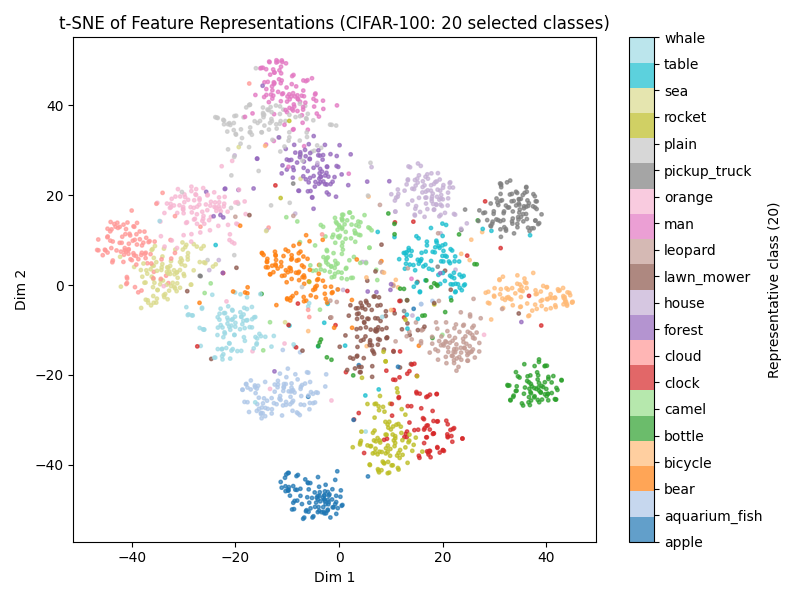
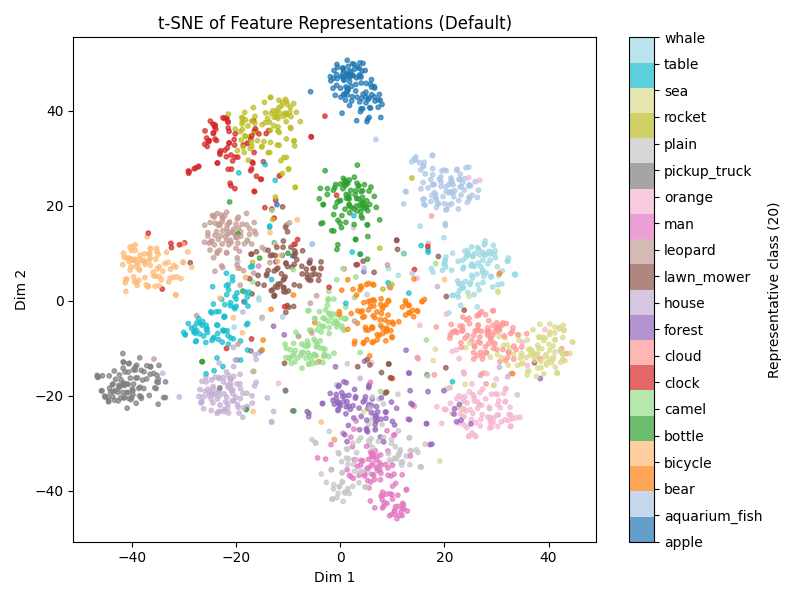
a

diff --git a/visualize_feat.py b/visualize_feat.py
@@ -173,8 +173,8 @@ os.makedirs(f"./result_features/{method}/{data_type}", exist_ok=True)
 
 augmentations = [
     # "FOMA-Mixup",
-    # "Default",
-    "Mixup", 
+    "Default",
+    # "Mixup", 
     # "Local-FOMA", 
     # "Mixup-FOMA2",
 ]
